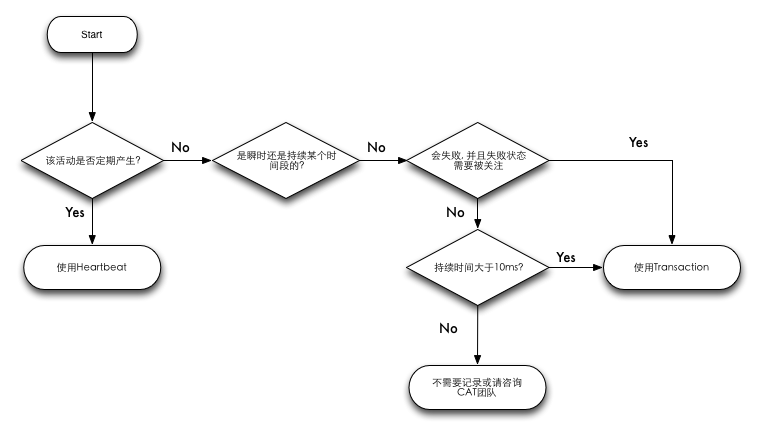
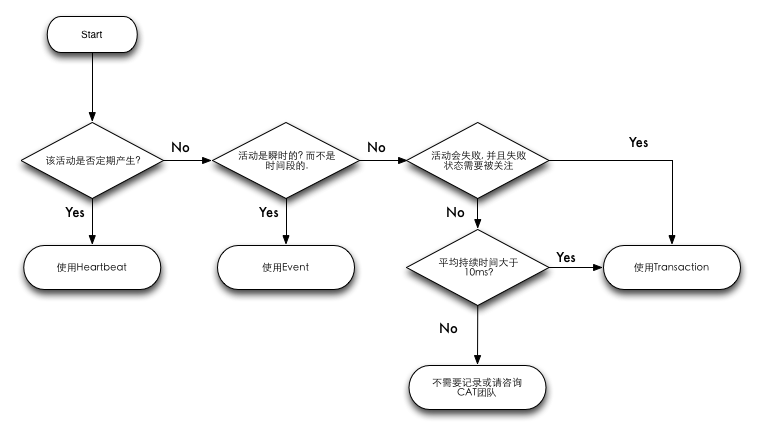
more doc

diff --git a/doc/cat-developer.html b/doc/cat-developer.html
@@ -1,26 +1,53 @@
+<p><head><meta http-equiv="Content-Type" content="text/html;charset=utf-8"/></head></p>
 <h1 id="++">背景</h1>
 <p>本文描述了CAT的概要结构, 以及如何使用cat分析应用程序的方法和最佳实践. 这篇文档是第1版, 我们会尽快增加更丰富的内容. 如果你有任何问题, 请联系CAT团队成员.</p>
-<hr>
+<hr />
 <h1 id="++++">概要介绍</h1>
-<p><img alt="arch overview" src="img/test.png"></p>
-<hr>
+<p><img alt="arch overview" src="img/test.png" /></p>
+<hr />
 <h1 id="++++_1">环境设置</h1>
 <h2 id="++_1">依赖</h2>
-<p>TODO</p>
+<p>如果你的java项目基于maven管理,仅需要在pom.xml里加入cat-core项目依赖即可.</p>
+<pre><code class="xml">&lt;dependency&gt;
+    &lt;groupId&gt;com.dianping.cat&lt;/groupId&gt;
+    &lt;artifactId&gt;cat-core&lt;/artifactId&gt;
+    &lt;version&gt;0.2.4&lt;/version&gt;
+&lt;/dependency&gt;
+</code></pre>
+
+<p>同时你需要确认你的maven的conf.xml配置的是点评公司的仓库地址.</p>
 <h2 id="++++_2">配置文件</h2>
-<p>TODO</p>
-<hr>
+<p>你需要修改这个文件:/data/appdatas/cat/client.xml, windows机器前面还要加上程序当前运行根目录所在的盘符.</p>
+<pre><code>&lt;config mode=&quot;client&quot; xmlns:xsi=&quot;http://www.w3.org/2001/XMLSchema&quot; xsi:noNamespaceSchemaLocation=&quot;config.xsd&quot;&gt;
+        &lt;servers&gt;
+                &lt;server ip=&quot;192.168.7.43&quot;/&gt;
+        &lt;/servers&gt;
+        &lt;domain id=&quot;your domain id&quot;/&gt;
+&lt;/config&gt;
+</code></pre>
+
+<dl>
+<dt>server</dt>
+<dd>ip表示cat客户端收集到的消息发送的cat服务器. 测试服务器地址http://192.168.7.43:8080/cat/r . 线上的应用一般配多个server来实现容灾和负载均衡.</dd>
+<dt>domain</dt>
+<dd>id表示消息归属的domain name, 这会体现在cat服务端实时报表的domain分类上. 如果需要关闭cat消息收集, domain节点增加属性项enable="false"即可.</dd>
+</dl>
+<hr />
 <h1 id="cat++api">CAT消息API</h1>
 <h2 id="++++_3">消息协议</h2>
 <p>CAT客户端可以向服务端发送Transaction, Event, Heartbeat三种消息. 消息的传输格式如下:</p>
 <pre><code>&lt;Class&gt;&lt;Timestamp&gt;\t&lt;Type&gt;\t&lt;Name&gt;[\t&lt;Status][\t&lt;Duration&gt;][\t&lt;Data&gt;]
 </code></pre>
 
+<p>如:</p>
+<pre><code>H2012-04-26 16:00:42.775        Heartbeat       192.168.63.141  0  &lt;os name=&quot;Mac OS X&quot; arch=&quot;x86_64&quot; version=&quot;Mac OS X&quot;/&gt;
+</code></pre>
+
 <h3 id="class">Class</h3>
 <dl>
 <dt>有5种Cat消息类别, 每种类别用1个字符表示:</dt>
 <dt>t</dt>
-<dd>Transaction开始</dd>
+<dd>Transaction开始 </dd>
 <dt>T</dt>
 <dd>Transaction结束</dd>
 <dt>A</dt>
@@ -47,34 +74,86 @@
 <h3 id="duration">Duration</h3>
 <p>精确到0.1毫秒. 表示transaction start和transaction end之间的时间长度. 仅出现在Transaction end或者Atomic Transaction. Event和Heartbeat没有duration字段.</p>
 <h3 id="data">Data</h3>
-<p>以&amp;字符分割的name=value对组成的字符串列表. Transaction start没有data字段.</p>
+<p>建议使用以&amp;字符分割的name=value对组成的字符串列表. Transaction start没有data字段.</p>
 <h2 id="++_2">实现</h2>
 <p>我们建议程序内部跨越边界访问的活动都需要记录下Cat消息. 另外, 三种基本消息Transaction, Event, Heartbeat何时使用, 请参见下图:</p>
-<p><img alt="" src="img/cat-message-desicion.png"></p>
+<p><img alt="" src="img/cat-message-desicion.png" /></p>
 <h3 id="transaction_1">Transaction</h3>
 <p>当你准备要使用Transaction时,请遵循下图的流程:</p>
-<p><img alt="" src="img/cat-transaction-desicion.png"></p>
+<p><img alt="" src="img/cat-transaction-desicion.png" /></p>
+<p>这里是Transaction的api:</p>
+<p>com.dianping.cat.message.MessageProducer:</p>
+<pre><code class="java">        Transaction newTransaction(String type, String name);
+</code></pre>
+
+<p>com.dianping.cat.message.Transaction:</p>
+<pre><code class="java">        void addData(String keyValuePairs);
+
+        void addData(String key, Object value);
+
+        void setStatus(String status);
+
+        void complete();
+</code></pre>
+
 <h3 id="event_1">Event</h3>
 <p>当你准备要使用event时,请遵循下图的流程:</p>
-<p><img alt="" src="img/cat-event-desicion.png"></p>
+<p><img alt="" src="img/cat-event-desicion.png" /></p>
+<p>这里是Event的api:</p>
+<p>com.dianping.cat.message.MessageProducer:</p>
+<pre><code class="java">        void logEvent(String type, String name, String status, String keyValuePairs);
+
+        Event newHeartbeat(String type, String name);
+</code></pre>
+
+<p>com.dianping.cat.message.Event:</p>
+<pre><code class="java">        void addData(String keyValuePairs);
+
+        void addData(String key, Object value);
+
+        void setStatus(String status);
+
+        void complete();
+</code></pre>
+
 <h3 id="heartbeat_1">Heartbeat</h3>
 <p>当你准备要使用heartbeat时,请遵循下图的流程:</p>
-<p><img alt="" src="img/cat-heartbeat-desicion.png"></p>
+<p><img alt="" src="img/cat-heartbeat-desicion.png" /></p>
+<p>这里是Heartbeat的api:</p>
+<p>com.dianping.cat.message.MessageProducer:</p>
+<pre><code class="java">        void logHeartbeat(String type, String name, String status, String keyValuePairs);
+
+        Heartbeat newHeartbeat(String type, String name);
+</code></pre>
+
+<p>com.dianping.cat.message.Heartbeat:</p>
+<pre><code class="java">        void addData(String keyValuePairs);
+
+        void addData(String key, Object value);
+
+        void setStatus(String status);
+
+        void complete();
+</code></pre>
+
 <h2 id="++++cat+++++">已经实现Cat集成的框架</h2>
 <h3 id="avataravatar-biz_url_action">Avatar/Avatar-Biz (URL, Action)</h3>
 <h3 id="zebra_sql">Zebra (SQL)</h3>
 <h3 id="pigeon_call_result">Pigeon (Call, Result)</h3>
 <h3 id="ox_tbd">Ox (TBD)</h3>
 <h3 id="swallow_tbd">Swallow (TBD)</h3>
-<hr>
-<h1 id="+++++">部署和维护</h1>
-<h2 id="++_3">配置</h2>
-<h2 id="++_4">监视</h2>
-<hr>
+<hr />
 <h1 id="++++_4">插件开发</h1>
 <h2 id="++++++">实时报表插件</h2>
+<p>Cat服务端接收到消息后, 分发给报表插件模块. 实时生成报表. 目前有Transaction, Event, Heartbeat, Problem, IP等5张实时报表. 如业务需要增加新的实时报表, 请练习Cat团队.</p>
 <h2 id="hadoop++">Hadoop任务</h2>
-<hr>
+<p>Cat服务端每隔1小时会把所有的消息备份到hdfs服务器, 定期执行的hadoop job分析备份数据, 生成SQL统计报表. 如业务需要增加新的统计报表, 请练习Cat团队.</p>
+<hr />
 <h1 id="faq">FAQ</h1>
-<h2 id="cat+++++++">Cat能解决哪些问题</h2>
-<h2 id="cat++++++++">Cat不能解决哪些问题</h2>
+<h2 id="cat+++">Cat是什么</h2>
+<p>Cat是通过客户端埋点实时收集程序运行消息, 在服务端分析程序运行状况, 生成统计报表的工具.</p>
+<h2 id="cat++++">Cat不是什么</h2>
+<ul>
+<li>Cat需要客户端埋点来收集程序运行消息, 不要指望它能发现埋点范围之外的问题.</li>
+<li>Cat能帮助你发现问题, 但是不能帮你解决问题</li>
+</ul>

diff --git a/doc/cat-admin.html b/doc/cat-admin.html
@@ -1,0 +1,39 @@
+<p><head><meta http-equiv="Content-Type" content="text/html;charset=utf-8"/></head></p>
+<h1 id="++">背景</h1>
+<p>本文描述了如何部署和维护CAT. 如果你有任何问题, 请联系CAT团队成员.</p>
+<hr />
+<h1 id="++_1">部署</h1>
+<p>你需要增加这个文件:/data/appdatas/cat/server.xml</p>
+<pre><code class="xml">&lt;config local-mode=&quot;false&quot;&gt;
+        &lt;storage local-base-dir=&quot;/data/appdatas/cat/bucket&quot;&gt;
+                &lt;hdfs id=&quot;logview&quot; max-size=&quot;128M&quot; server-uri=&quot;hdfs://10.1.1.169/user/cat&quot; base-dir=&quot;logview&quot;/&gt;
+                &lt;hdfs id=&quot;dump&quot; max-size=&quot;128M&quot; server-uri=&quot;hdfs://10.1.1.169/user/cat&quot; base-dir=&quot;dump&quot;/&gt;
+                &lt;properties&gt;
+                        &lt;property name=&quot;hadoop.security.authentication&quot; value=&quot;kerberos&quot;/&gt;
+                        &lt;property name=&quot;dfs.cat.kerberos.principal&quot; value=&quot;cat@DIANPING.COM&quot;/&gt;
+                        &lt;property name=&quot;dfs.cat.keytab.file&quot; value=&quot;/data/appdatas/cat/cat.keytab&quot;/&gt;
+                        &lt;property name=&quot;java.security.krb5.kdc&quot; value=&quot;10.1.1.170&quot;/&gt;
+                        &lt;property name=&quot;dfs.namenode.kerberos.principal&quot; value=&quot;hadoop/10.1.1.169@DIANPING.COM&quot;/&gt;
+                        &lt;property name=&quot;java.security.krb5.realm&quot; value=&quot;DIANPING.COM&quot;/&gt;
+                &lt;/properties&gt;
+        &lt;/storage&gt;
+        &lt;consumer&gt;
+                &lt;long-url default-threshold=&quot;1000&quot;&gt;
+                        &lt;domain name=&quot;Cat&quot; threshold=&quot;500&quot;/&gt;
+                &lt;/long-url&gt;
+        &lt;/consumer&gt;
+        &lt;console default-domain=&quot;MobileApi&quot; show-cat-domain=&quot;true&quot;&gt;
+             &lt;remote-servers&gt;10.1.6.48:8080,10.1.6.37:8080&lt;/remote-servers&gt;
+        &lt;/console&gt;
+&lt;/config&gt;
+</code></pre>
+
+<p>同时检查这几个地方:</p>
+<ul>
+<li>在remote-servers内增加新机器的ip</li>
+<li>检查 /data/appdatas/cat/cat.keytab 这个文件是否有效</li>
+<li>检查 hdfs://10.1.1.169/user/cat     这个hdfs目录是否有效</li>
+</ul>
+<hr />
+<h1 id="++++">数据清理</h1>
+<p>hdfs://10.1.1.169/user/cat/dump 下需要保留近3天的数据, 供分析报表使用. hdfs://10.1.1.169/user/cat/logview 下需要保留近1个月的数据, 供分析报表使用</p>

diff --git a/doc/sample.html b/doc/sample.html
@@ -1,0 +1,28 @@
+<h1 id="++">背景</h1>
+<p>服务端配置文件位于/data/appdatas/cat/server.xml </p>
+<pre><code class="xml">&lt;config local-mode=&quot;false&quot;&gt;
+        &lt;storage local-base-dir=&quot;/data/appdatas/cat/bucket&quot;&gt;
+                &lt;hdfs id=&quot;logview&quot; max-size=&quot;128M&quot; server-uri=&quot;hdfs://10.1.1.169/user/cat&quot; base-dir=&quot;logview&quot;/&gt;
+                &lt;hdfs id=&quot;dump&quot; max-size=&quot;128M&quot; server-uri=&quot;hdfs://10.1.1.169/user/cat&quot; base-dir=&quot;dump&quot;/&gt;
+                &lt;properties&gt;
+                        &lt;property name=&quot;hadoop.security.authentication&quot; value=&quot;kerberos&quot;/&gt;
+                        &lt;property name=&quot;dfs.cat.kerberos.principal&quot; value=&quot;cat@DIANPING.COM&quot;/&gt;
+                        &lt;property name=&quot;dfs.cat.keytab.file&quot; value=&quot;/data/appdatas/cat/cat.keytab&quot;/&gt;
+                        &lt;property name=&quot;java.security.krb5.kdc&quot; value=&quot;10.1.1.170&quot;/&gt;
+                        &lt;property name=&quot;dfs.namenode.kerberos.principal&quot; value=&quot;hadoop/10.1.1.169@DIANPING.COM&quot;/&gt;
+                        &lt;property name=&quot;java.security.krb5.realm&quot; value=&quot;DIANPING.COM&quot;/&gt;
+                &lt;/properties&gt;
+        &lt;/storage&gt;
+        &lt;consumer&gt;
+                &lt;long-url default-threshold=&quot;1000&quot;&gt;
+                        &lt;domain name=&quot;Cat&quot; threshold=&quot;500&quot;/&gt;
+                &lt;/long-url&gt;
+        &lt;/consumer&gt;
+        &lt;console default-domain=&quot;MobileApi&quot; show-cat-domain=&quot;true&quot;&gt;
+             &lt;remote-servers&gt;10.1.6.48:8080,10.1.6.37:8080&lt;/remote-servers&gt;
+        &lt;/console&gt;
+&lt;/config&gt;
+</code></pre>
+
+<h1 id="+++++">客户端配置</h1>
+<p>/data/appdatas/cat/client.xml </p>

diff --git a/doc/cat-admin.md b/doc/cat-admin.md
@@ -1,0 +1,44 @@
+<head><meta http-equiv="Content-Type" content="text/html;charset=utf-8"/></head>
+# 背景
+本文描述了如何部署和维护CAT. 如果你有任何问题, 请联系CAT团队成员.
+
+------------------------------------------------
+
+# 部署
+你需要增加这个文件:/data/appdatas/cat/server.xml
+
+~~~~.xml
+<config local-mode="false">
+        <storage local-base-dir="/data/appdatas/cat/bucket">
+                <hdfs id="logview" max-size="128M" server-uri="hdfs://10.1.1.169/user/cat" base-dir="logview"/>
+                <hdfs id="dump" max-size="128M" server-uri="hdfs://10.1.1.169/user/cat" base-dir="dump"/>
+                <properties>
+                        <property name="hadoop.security.authentication" value="kerberos"/>
+                        <property name="dfs.cat.kerberos.principal" value="cat@DIANPING.COM"/>
+                        <property name="dfs.cat.keytab.file" value="/data/appdatas/cat/cat.keytab"/>
+                        <property name="java.security.krb5.kdc" value="10.1.1.170"/>
+                        <property name="dfs.namenode.kerberos.principal" value="hadoop/10.1.1.169@DIANPING.COM"/>
+                        <property name="java.security.krb5.realm" value="DIANPING.COM"/>
+                </properties>
+        </storage>
+        <consumer>
+                <long-url default-threshold="1000">
+                        <domain name="Cat" threshold="500"/>
+                </long-url>
+        </consumer>
+        <console default-domain="MobileApi" show-cat-domain="true">
+             <remote-servers>10.1.6.48:8080,10.1.6.37:8080</remote-servers>
+        </console>
+</config>
+~~~~
+
+同时检查这几个地方:
+
+* 在remote-servers内增加新机器的ip
+* 检查 /data/appdatas/cat/cat.keytab 这个文件是否有效
+* 检查 hdfs://10.1.1.169/user/cat     这个hdfs目录是否有效
+
+--------------------------------------------------------
+
+# 数据清理
+ hdfs://10.1.1.169/user/cat/dump 下需要保留近3天的数据, 供分析报表使用. hdfs://10.1.1.169/user/cat/logview 下需要保留近1个月的数据, 供分析报表使用

diff --git a/doc/sample.md b/doc/sample.md
@@ -1,0 +1,34 @@
+# 背景
+服务端配置文件位于/data/appdatas/cat/server.xml 
+
+~~~~.xml
+<config local-mode="false">
+        <storage local-base-dir="/data/appdatas/cat/bucket">
+                <hdfs id="logview" max-size="128M" server-uri="hdfs://10.1.1.169/user/cat" base-dir="logview"/>
+                <hdfs id="dump" max-size="128M" server-uri="hdfs://10.1.1.169/user/cat" base-dir="dump"/>
+                <properties>
+                        <property name="hadoop.security.authentication" value="kerberos"/>
+                        <property name="dfs.cat.kerberos.principal" value="cat@DIANPING.COM"/>
+                        <property name="dfs.cat.keytab.file" value="/data/appdatas/cat/cat.keytab"/>
+                        <property name="java.security.krb5.kdc" value="10.1.1.170"/>
+                        <property name="dfs.namenode.kerberos.principal" value="hadoop/10.1.1.169@DIANPING.COM"/>
+                        <property name="java.security.krb5.realm" value="DIANPING.COM"/>
+                </properties>
+        </storage>
+        <consumer>
+                <long-url default-threshold="1000">
+                        <domain name="Cat" threshold="500"/>
+                </long-url>
+        </consumer>
+        <console default-domain="MobileApi" show-cat-domain="true">
+             <remote-servers>10.1.6.48:8080,10.1.6.37:8080</remote-servers>
+        </console>
+</config>
+~~~~
+
+
+
+# 客户端配置
+/data/appdatas/cat/client.xml 
+
+
